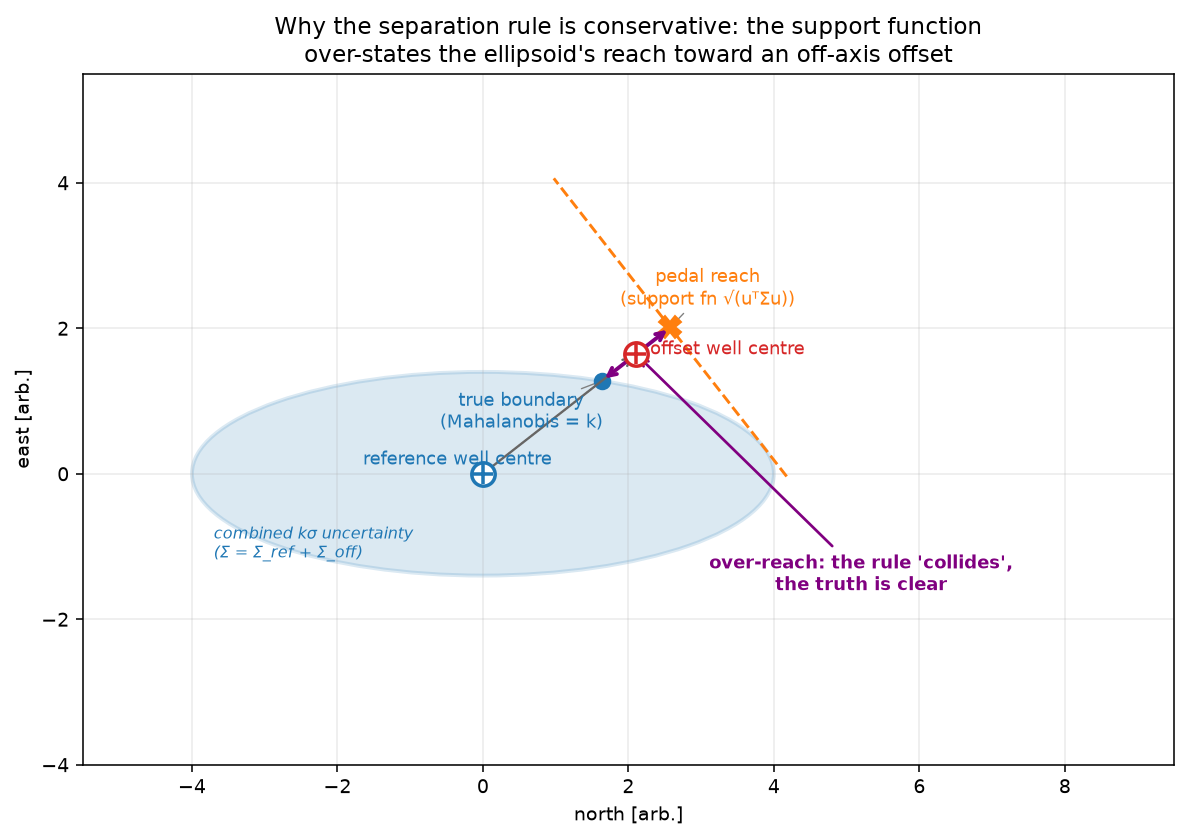
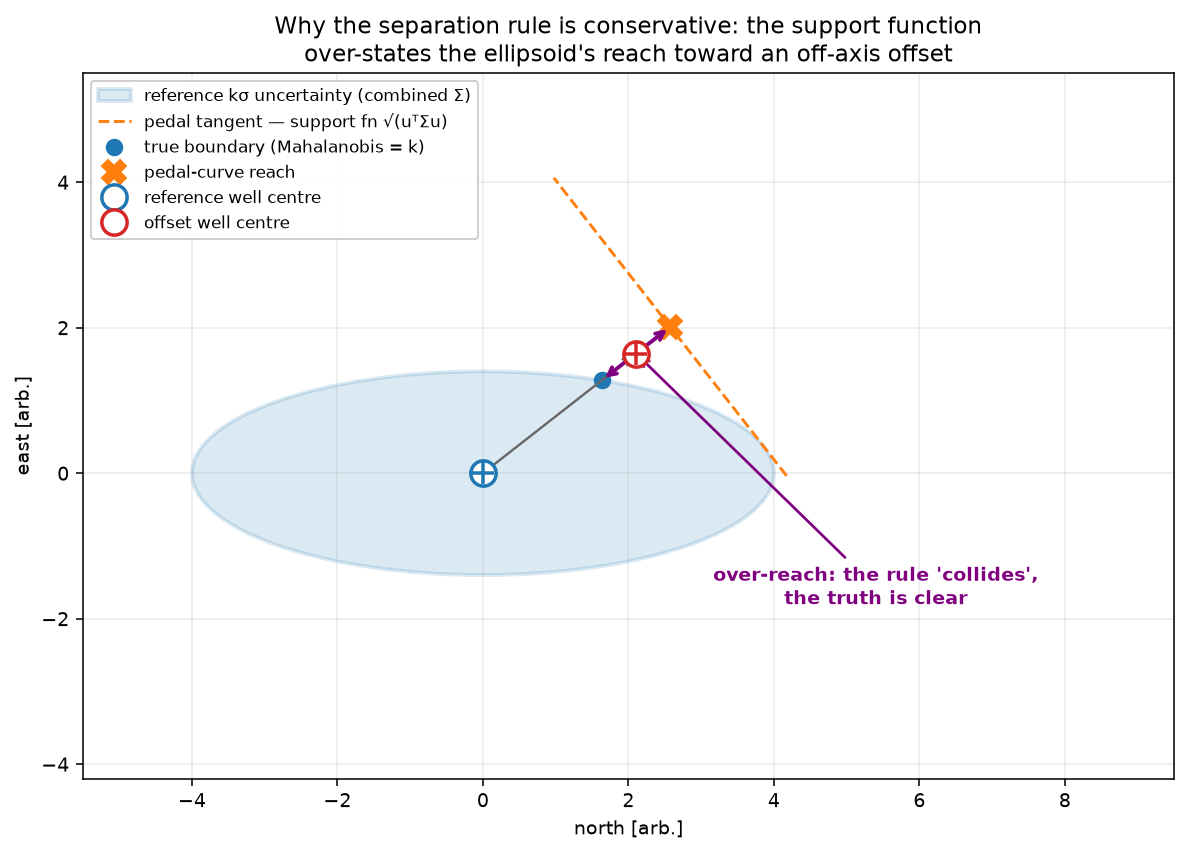
docs(papers): fig1 legend (no overlap), fig2 collision-zone + verdict labels, signed-SF note
Fig 1: switch to a legend in empty space (the cramped cluster defeated inline
adjustText labels); both well centres drawn as ⊕ borehole markers.
Fig 2: shade the SF<1 collision zone and label the collision-well Mahalanobis
values so the SF≈0 bars (e.g. Well 10) read as collisions, not blanks.
Paper: note that a negative pedal SF means the bores physically intersect
(centre distance < combined radii); the Mahalanobis factor is non-negative and
floors at 0 — both report a collision. Well 10 is the sidetrack; kop_depth is
applied identically to both methods.

Claude-Session: https://claude.ai/code/session_01LmC8qDNLexfqYjEP5tibPn

diff --git a/papers/generate_anti_collision_figures.py b/papers/generate_anti_collision_figures.py
@@ -34,44 +34,33 @@ def fig1():
     bp = u * r_true                  # true ellipse boundary along u
     tp = u * h_sup                   # support-function reach along u
 
-    from adjustText import adjust_text
     fig, ax = plt.subplots(figsize=(8.6, 6.0))
-    ax.add_patch(Ellipse((0, 0), 2 * a, 2 * b, color="C0", alpha=0.16, ec="C0", lw=2))
-    ax.text(-a + 0.3, -b + 0.25, "combined kσ uncertainty\n(Σ = Σ_ref + Σ_off)",
-            color="C0", fontsize=8, style="italic")
-    # the two WELL CENTRE points (use a ⊕ borehole-style marker for both)
-    ax.plot(0, 0, marker="o", color="white", mec="C0", mew=1.8, ms=12, zorder=5)
-    ax.plot(0, 0, marker="+", color="C0", mew=1.8, ms=10, zorder=6)
-    ax.plot(P[0], P[1], marker="o", color="white", mec="C3", mew=1.8, ms=12, zorder=5)
-    ax.plot(P[0], P[1], marker="+", color="C3", mew=1.8, ms=10, zorder=6)
+    # all elements carry LEGEND labels (no inline text → nothing can overlap)
+    ax.add_patch(Ellipse((0, 0), 2 * a, 2 * b, color="C0", alpha=0.16, ec="C0",
+                         lw=2, label="reference kσ uncertainty (combined Σ)"))
     ax.annotate("", xy=P, xytext=(0, 0), arrowprops=dict(arrowstyle="->", color="0.4", lw=1.2))
     ax.plot([tp[0] - 2.6 * perp[0], tp[0] + 2.6 * perp[0]],
-            [tp[1] - 2.6 * perp[1], tp[1] + 2.6 * perp[1]], color="C1", lw=1.5, ls="--")
+            [tp[1] - 2.6 * perp[1], tp[1] + 2.6 * perp[1]], color="C1", lw=1.5,
+            ls="--", label="pedal tangent — support fn √(uᵀΣu)")
     ax.plot([0, tp[0]], [0, tp[1]], color="C1", lw=0.8, ls=":")
-    ax.plot(*bp, "o", color="C0", ms=8)
-    ax.plot(*tp, "X", color="C1", ms=11)
+    ax.plot(*bp, "o", color="C0", ms=8, label="true boundary (Mahalanobis = k)")
+    ax.plot(*tp, "X", color="C1", ms=12, label="pedal-curve reach")
+    # the two WELL CENTRE points as ⊕ borehole markers
+    ax.plot(0, 0, marker="o", color="white", mec="C0", mew=1.8, ms=13, zorder=5,
+            label="reference well centre")
+    ax.plot(0, 0, marker="+", color="C0", mew=1.8, ms=11, zorder=6)
+    ax.plot(P[0], P[1], marker="o", color="white", mec="C3", mew=1.8, ms=13, zorder=5,
+            label="offset well centre")
+    ax.plot(P[0], P[1], marker="+", color="C3", mew=1.8, ms=11, zorder=6)
     ax.annotate("", xy=tp, xytext=bp, arrowprops=dict(arrowstyle="<->", color="purple", lw=2))
-    # element labels, force-repelled apart (adjustText) with leader lines
-    lbl = [
-        (0.0, 0.0, "reference well centre", "C0"),
-        (bp[0], bp[1], "true boundary\n(Mahalanobis = k)", "C0"),
-        (tp[0], tp[1], "pedal reach\n(support fn √(uᵀΣu))", "C1"),
-        (P[0], P[1], "offset well centre", "C3"),
-    ]
-    texts = [ax.text(x, y, s, color=c, fontsize=9, ha="center")
-             for x, y, s, c in lbl]
-    adjust_text(
-        texts, x=[p[0] for p in lbl], y=[p[1] for p in lbl], ax=ax,
-        expand=(1.6, 2.0), force_text=(0.6, 0.9),
-        arrowprops=dict(arrowstyle="-", color="0.5", lw=0.7),
-    )
-    # the "over-reach" call-out: fixed in empty space, arrow to the gap
+    # single call-out, anchored in empty space, arrow to the gap
     gap_mid = 0.5 * (tp + bp)
     ax.annotate("over-reach: the rule 'collides',\nthe truth is clear",
-                xy=gap_mid, xytext=(5.2, -1.6), fontsize=9, color="purple",
+                xy=gap_mid, xytext=(5.4, -1.8), fontsize=10, color="purple",
                 ha="center", weight="bold",
                 arrowprops=dict(arrowstyle="->", color="purple", lw=1.4))
-    ax.set_aspect("equal"); ax.set_xlim(-5.5, 9.5); ax.set_ylim(-4.0, 5.5)
+    ax.legend(loc="upper left", fontsize=8.5, framealpha=0.95)
+    ax.set_aspect("equal"); ax.set_xlim(-5.5, 9.5); ax.set_ylim(-4.2, 5.5)
     ax.set_xlabel("north [arb.]"); ax.set_ylabel("east [arb.]")
     ax.set_title("Why the separation rule is conservative: the support function\n"
                  "over-states the ellipsoid's reach toward an off-axis offset")
@@ -88,10 +77,18 @@ def fig2():
     mah = [float(r["mahalanobis_minSF"]) for r in rows]
     x = np.arange(len(names)); w = 0.38
     fig, ax = plt.subplots(figsize=(9.2, 5.0))
+    ymin = min(min(ped), min(mah)) - 0.3
+    ax.axhspan(ymin, 1.0, color="red", alpha=0.06)            # collision zone SF<1
     ax.bar(x - w / 2, ped, w, label="pedal / separation rule (ISCWSA)", color="C1")
     ax.bar(x + w / 2, mah, w, label="exact combined-ellipsoid (Mahalanobis)", color="C0")
     ax.axhline(1.0, color="k", lw=1, ls="--"); ax.text(len(names) - 0.6, 1.08, "SF = 1 (collision threshold)", fontsize=8)
     ax.axhline(0.0, color="0.6", lw=0.8)
+    ax.text(0.1, ymin + 0.15, "collision zone (SF < 1)", fontsize=8, color="firebrick")
+    # label maha values for the collision wells (otherwise SF≈0 bars vanish)
+    for xi, m in zip(x, mah):
+        if m < 1.0:
+            ax.text(xi + w / 2, m + 0.06, f"{m:.2f}", ha="center", fontsize=7, color="C0")
+    ax.set_ylim(ymin, max(max(ped), max(mah)) * 1.08)
     ax.set_xticks(x); ax.set_xticklabels(names)
     ax.set_xlabel("ISCWSA standard-set offset well"); ax.set_ylabel("minimum separation factor")
     ax.set_title("Minimum separation factor: pedal rule vs exact Mahalanobis boundary\n"

diff --git a/papers/anti-collision-conservatism.md b/papers/anti-collision-conservatism.md
@@ -122,6 +122,8 @@ The same combined-covariance ellipsoid can be realised as a triangulated mesh an
 
 On the ISCWSA standard set the exact method returns the **same collision/clear verdict as the validated rule on every well** (Wells 03, 04, 09, 10, 11 collide; 01, 02, 05, 06, 07, 08 clear), while being **less conservative on the margin** — up to $1.48\times$ (Well 03: $\mathrm{SF}$ $0.46\to0.68$; Well 05: $1.20\to1.73$; Well 07: $1.63\to2.18$). Figure 3 contrasts the two across the set. The method is **fast**: $35$ ms per well pair versus $300$ ms for the pedal rule, suitable for the inner loop of batch and automated well planning.
 
+Two conventions are worth noting on the deeply overlapping wells. Where the *centres* lie closer than the combined hole radii plus surface margin ($\lVert\mathbf{d}\rVert < R$) the wellbores physically intersect: the separation rule returns a **negative** factor (its linear numerator $\lVert\mathbf{d}\rVert-R$ goes negative, conveying the depth of overlap), whereas the Mahalanobis factor is non-negative by construction and floors at $0$. Both correctly report a collision; the sign is a property of the rule's linear form, not a disagreement. Well 10 is the reference well's sidetrack: its kickoff intersects the parent by design, so the scan begins below the kickoff (`kop_depth`) — applied identically to *both* methods, and consistent with the published standard-set value.
+
 ![Minimum separation factor on the ISCWSA standard set: the separation rule (pedal) vs the exact combined-ellipsoid Mahalanobis boundary. The verdict (relative to $\mathrm{SF}=1$) is identical for every well, but the exact factor is never smaller than the rule's — up to $1.48\times$ larger on the clear wells, i.e. that much less standoff demanded.](figures/pedal-vs-mahalanobis-iscwsa.png){width=90%}
 
 The practical reading: where the rule reports, say, $\mathrm{SF}=1.2$ and would demand additional surveying or a redesign, the exact method may report $\mathrm{SF}=1.7$ — clear with margin — recovering a drillable well without acquiring more data.
